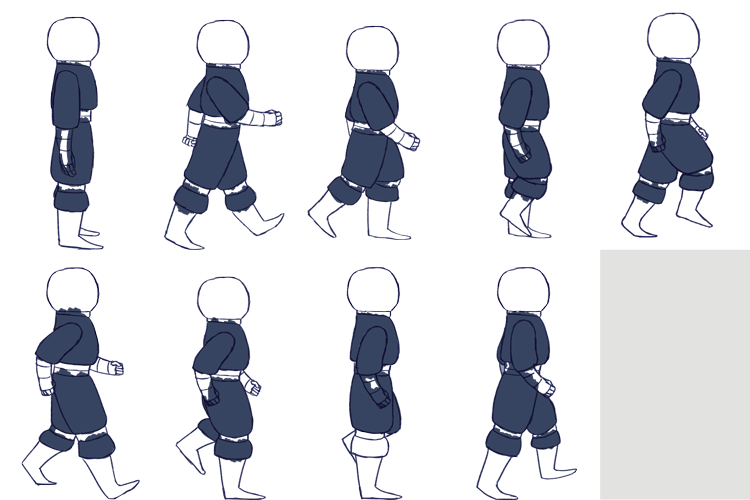
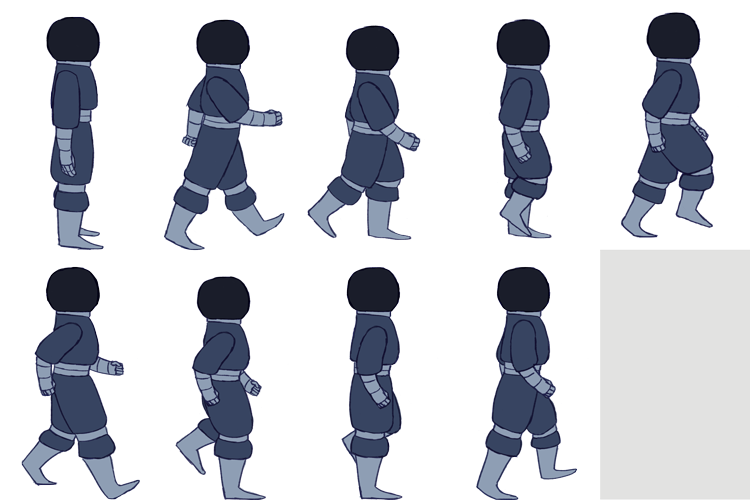
Finished Forward Walk

diff --git a/player.js b/player.js
@@ -19,6 +19,7 @@
 	sizeY: 125,
 	root2: 0.0,
 	image: undefined,
+	image2: undefined,
 	walkFrame: 0,
 	walkFrameArray: [],
 	frameCount: 0,
@@ -28,6 +29,10 @@
 		console.log("PLAYER!");
 		this.image = new Image();
 		this.image.src = game.IMAGES["playerSprites"];
+		
+		this.image2 = new Image();
+		this.image2.src = game.IMAGES["playerSpritesInverse"];
+		
 		this.walkFrameArray[0] = { x: 450, y: 0 };
 		this.walkFrameArray[1] = { x: 600, y: 0 };
 		this.walkFrameArray[2] = { x: 0, y: 250 };
@@ -50,11 +55,18 @@
 			//DestinationX, DestinationY, FrameW, FrameH)
 		
 		if(this.moving) {
+			ctx.save();
+			var drawImage = this.image;
 			
 			var frameW = this.sizeX * (.1 + this.y/240);
 			var frameH = this.sizeY * (.1 + this.y/240);
-			ctx.drawImage(this.image, this.walkFrameArray[this.walkFrame].x, this.walkFrameArray[this.walkFrame].y, 150, 250, 
+			
+			if(this.x - this.target.x > 0)
+				drawImage = this.image2;
+			
+			ctx.drawImage(drawImage, this.walkFrameArray[this.walkFrame].x, this.walkFrameArray[this.walkFrame].y, 150, 250, 
 				this.x - frameW/2, this.y - frameH, frameW, frameH);
+			ctx.restore();
 			if(this.frameCount > 6 ){
 				this.walkFrame++;
 				this.frameCount = 0;

diff --git a/loader.js b/loader.js
@@ -24,7 +24,8 @@ game.IMAGES = {
 	controlRoom: "assets/docking-bay.png",
 	bedroom: "assets/docking-bay.png",
 	laboratory: "assets/docking-bay.png",
-	playerSprites: "assets/walk-cycle.png"
+	playerSprites: "assets/walk-cycle.png",
+	playerSpritesInverse: "assets/walk-cycle-flipped.png"
 };
 
 game.keydown = [];
@@ -51,7 +52,9 @@ window.onload = function() {
 		{id: "hallway", src: "assets/docking-bay"},
 		{id: "controlRoom", src: "assets/docking-bay"},
 		{id: "bedroom", src: "assets/docking-bay"},
-		{id: "laboratory", src: "assets/docking-bay"}
+		{id: "laboratory", src: "assets/docking-bay"},
+		{id: "playerSprites", src: "assets/walk-cycle"},
+		{id: "playerSpritesInverse", src: "assets/walk-cycle-flipped"}
 	]);
 	
 }
